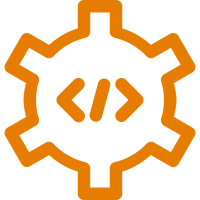
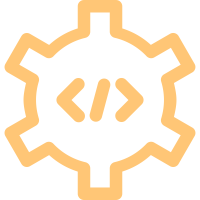
lighter images

Changed region(s): [[0.0, 0.0, 0.99, 1.0], [0.27, 0.39, 0.72, 0.63]]

diff --git a/README.md b/README.md
@@ -1,5 +1,8 @@
+<p align="center">
+    <img width="300" src="./docs/images/logo.svg" alt="agdb logo">
+</p>
 <h1 align="center">
-    <img width="50" src="./docs/images/logo.svg" alt="agdb logo"> agdb <img width="50" src="./docs/images/logo.svg" alt="agdb logo">
+    agdb
 </h1>
 <h3 align="center">
     The graph database.
